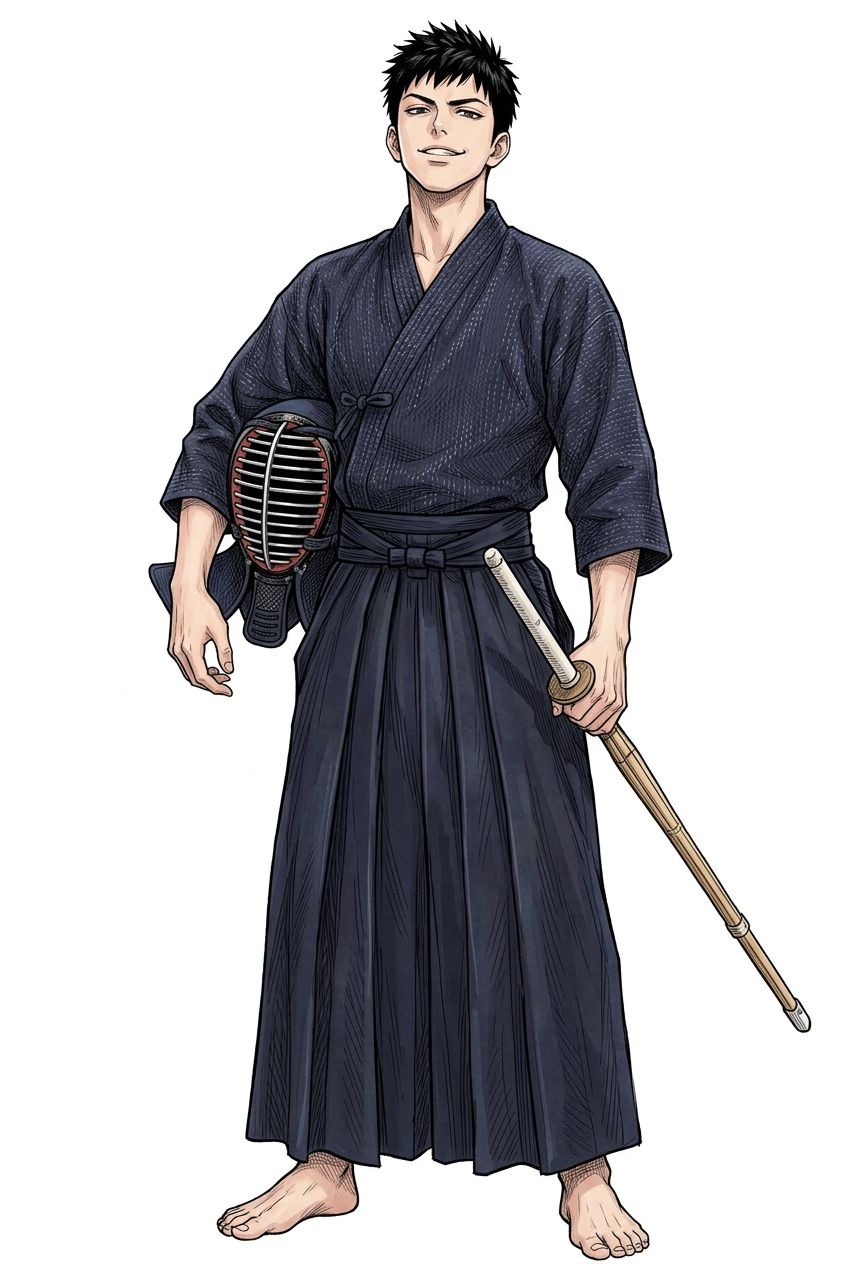
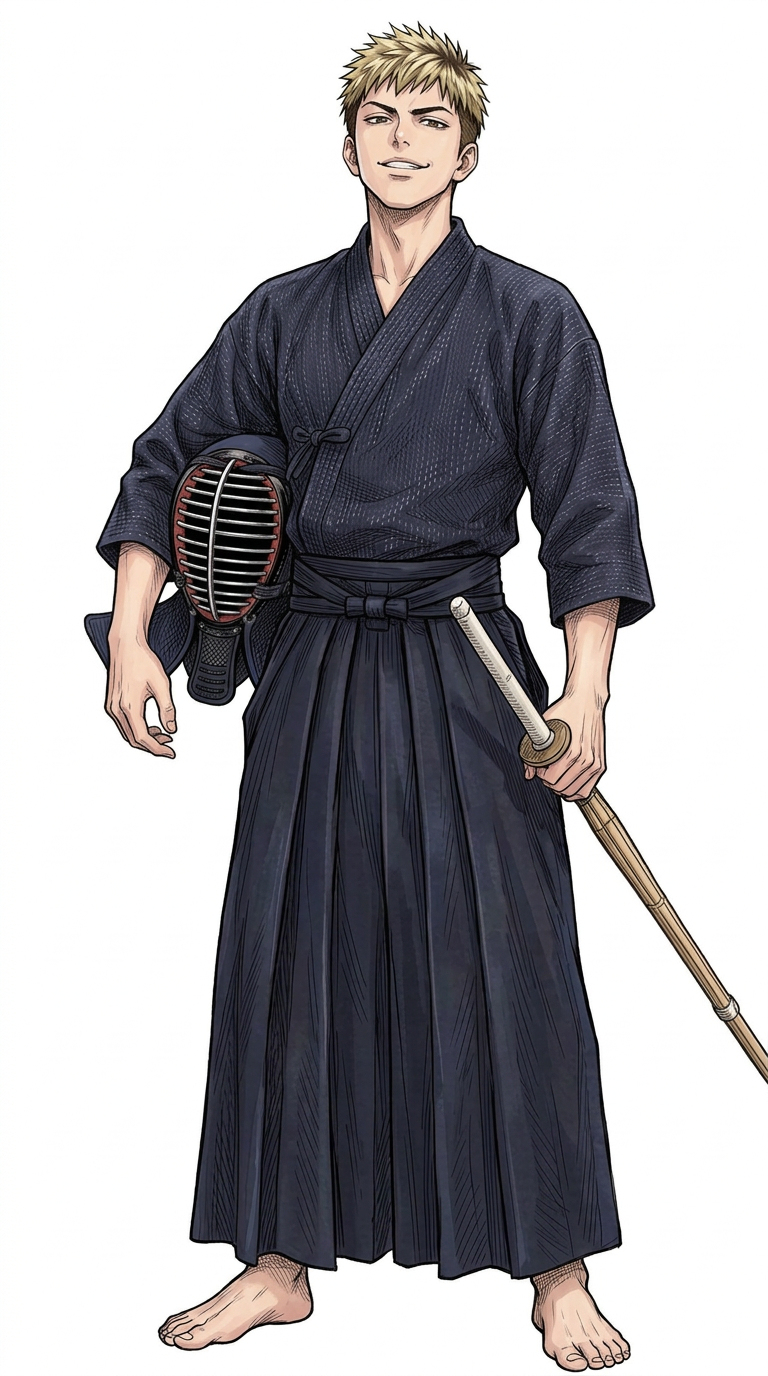
Author's inventory review: imperial units everywhere, taller beast, Kazuo B, winter past-life death (winter past backgrounds), blonde opponent, slate-blue Takatsuki, black-haired thug, two-sword ronin, imperial lineups (+ lineup.py)
Claude-Session: https://claude.ai/code/session_01XLs2Ne2mLuYkmfmUJY1juB

Changed region(s): [[0.0938, 0.0, 1.0, 1.0]]

diff --git a/production/pipeline/layout/lineup.py b/production/pipeline/layout/lineup.py
@@ -1,0 +1,78 @@
+"""Cast scale lineups (style guide §1b). Imperial units only (author's rule, Oct 10).
+Each figure is masked from its white/cream background, its head top found in the
+central band of its bounding box (ignores raised hands and props), scaled so
+feet-to-head equals its height, and pasted bottom-aligned on a 6-inch grid.
+Run from the repo root: python3 production/pipeline/layout/lineup.py"""
+from PIL import Image, ImageDraw, ImageFont
+import numpy as np
+
+R = "production/refs/"
+I = R + "inventory/"
+PX = 8.0           # pixels per inch
+TOP_IN = 84        # grid goes to 7 ft
+MARGIN = 60
+
+def fmt(inches):
+    return f"{inches // 12}′{inches % 12}″"
+
+ROW1 = [("Kōhei", I+"full-kohei.png", 69), ("Nanoha", I+"full-nanoha.png", 59),
+        ("Natsuki", R+"natsuki-v2/01-restyle-uniform.png", 63), ("Akane", I+"full-akane.png", 60),
+        ("Ryōsuke", I+"full-ryosuke.png", 67), ("Rika", I+"full-rika.png", 61),
+        ("Takatsuki", I+"full-takatsuki.png", 68), ("Kirishima", I+"full-kirishima.png", 71),
+        ("Yuzu", I+"full-yuzu.png", 61), ("Ōno", I+"full-ono.png", 72),
+        ("Adviser", I+"adviser.png", 66), ("Manager", I+"full-manager.png", 65)]
+ROW2 = [("Kazuo", I+"kazuo-B.png", 72), ("Emi", I+"full-emi.png", 62), ("Sōta", I+"full-sota.png", 48),
+        ("Genji", I+"genji.png", 62), ("Mom", I+"kohei-mom-recover.png", 62), ("Dad", I+"kohei-dad-healthy.png", 68),
+        ("Rōnin (past)", I+"ronin-B.png", 69), ("Natsuki (past)", I+"past-natsuki-A.png", 62),
+        ("Her father", I+"past-father.png", 65), ("Thug", I+"thug.png", 70), ("Opponent", I+"opponent.png", 68),
+        ("Beast", ("beast", I+"beast-size-reference-v2.png"), 51)]
+
+def cutout(path):
+    beast = isinstance(path, tuple)
+    im = Image.open(path[1] if beast else path).convert("RGB")
+    if beast:  # right half of the size reference holds the beast
+        im = im.crop((560, 0, im.width, im.height))
+    a = np.asarray(im).astype(int)
+    bg = np.median(np.concatenate([a[:8].reshape(-1, 3), a[-8:].reshape(-1, 3), a[:, :8].reshape(-1, 3), a[:, -8:].reshape(-1, 3)]), axis=0)
+    m = np.abs(a - bg).sum(2) > 45
+    ys, xs = np.where(m)
+    x0, x1, y1 = xs.min(), xs.max(), ys.max()
+    if beast:
+        top = ys.min()
+    else:
+        c0, c1 = x0 + int(0.35 * (x1 - x0)), x0 + int(0.65 * (x1 - x0))
+        top = np.where(m[:, c0:c1].any(1))[0].min()
+    alpha = Image.fromarray((np.clip((np.abs(a - bg).sum(2) - 20) / 60, 0, 1) * 255).astype("uint8"))
+    rgba = im.copy(); rgba.putalpha(alpha)
+    return rgba.crop((x0, top if beast else ys.min(), x1 + 1, y1 + 1)), (top - (top if beast else ys.min()))
+
+def row(items, out, note=""):
+    font = ImageFont.truetype("/usr/share/fonts/truetype/dejavu/DejaVuSans.ttf", 26)
+    small = ImageFont.truetype("/usr/share/fonts/truetype/dejavu/DejaVuSans.ttf", 20)
+    figs = []
+    for name, path, h in items:
+        im, off = cutout(path)
+        s = (h * PX) / (im.height - off)
+        figs.append((name, h, im.resize((max(1, int(im.width * s)), int(im.height * s)), Image.LANCZOS)))
+    meas = ImageDraw.Draw(Image.new("RGB", (1, 1)))
+    slot = [max(f[2].width, int(meas.textlength(f[0], font=font))) for f in figs]
+    W = MARGIN * 2 + sum(slot) + 30 * (len(figs) - 1)
+    base = int(TOP_IN * PX) + 40
+    H = base + 90
+    can = Image.new("RGB", (W, H), "white"); d = ImageDraw.Draw(can)
+    for inch in range(0, TOP_IN + 1, 6):
+        y = base - int(inch * PX)
+        d.line([(MARGIN - 10, y), (W, y)], fill=(205, 205, 215) if inch % 12 == 0 else (232, 232, 238), width=2 if inch % 12 == 0 else 1)
+        if inch % 12 == 0:
+            d.text((6, y - 12), f"{inch // 12} ft", fill=(120, 120, 130), font=small)
+    x = MARGIN
+    for (name, h, im), sw in zip(figs, slot):
+        can.paste(im, (x, base - im.height), im)
+        d.text((x, base + 10), name, fill=(20, 20, 20), font=font)
+        d.text((x, base + 44), fmt(h) + (" to the ears" if name == "Beast" else ""), fill=(90, 90, 90), font=small)
+        x += sw + 30
+    can.save(out); return can
+
+if __name__ == "__main__":
+    row(ROW1, R + "lineup/lineup-1-school.png")
+    row(ROW2, R + "lineup/lineup-2-family-past.png")

diff --git a/story/style-guide.md b/story/style-guide.md
@@ -12,7 +12,7 @@ How Ōzakura looks and sounds, and how to generate it. Read this before any art,
      - `02-sailor-uniform.png`: **the age and proportion target**, and her school-day uniform.
      - `03-bedroom-plushies.png`: her room and at-home clothes. She reads slightly too young here, and her hair drifted gray.
      - `x-rejected-*`: the color options that weren't chosen.
-   - **Natsuki:** `production/refs/natsuki-v2/01-restyle-uniform.png` **locks the direction.** Her hair should end at the shoulders (it runs slightly long in this image), and her legs are still a bit long for 160 cm.
+   - **Natsuki:** `production/refs/natsuki-v2/01-restyle-uniform.png` **locks the direction.** Her hair should end at the shoulders (it runs slightly long in this image), and her legs are still a bit long for 5′3″.
      - `02-restyle-casual.png`: the styling idea only. **Do not use** its outfit, which reads as a twenty-something.
 3. **The author's concept references** (`production/refs/handoff/`):
    - **Nanoha:**
@@ -43,7 +43,7 @@ All files are in `production/refs/design-oct10/`. They outrank every older image
 | Natsuki casual | `natsuki-casual-A.png` (main), `natsuki-casual-B.png` | Hair runs slightly past the shoulders in both; correct to shoulder length in the sprites. School look: `natsuki-v2/01-restyle-uniform.png`. |
 | Kirishima (male) | `r3/kirishima-masc-A.png` | Crew cut, square jaw, broad shoulders, deadpan. Replaces the female sprite set. |
 | Fairy | `r3/fairy-shoulder.png`, `r3/fairy-desk.png` | **Scale method:** always show her next to a person or a known object (shoulder, pencil, mug); alone, the model draws her full-size. Rounded ears, no wings, petal robes. |
-| Beast | `r4/beast-size-reference.png`, `r4/beast-scene-town.png` | **Size rule:** shoulder at a man's belt line (about 90 cm), head reaching his chest. A really big dog, not a giant. The model inflates its size; pass `beast-size-reference.png` as image 1 in every beast prompt, and fix in post if needed. `beast-scene-past-2.png` is a mood concept only; the wolf is still too large. |
+| Beast | `inventory/beast-size-reference-v2.png` (**current, Oct 10**), `inventory/beast-ethereal-town.png` | **Size rule (raised Oct 10):** back at a man's belt line (about 3′4″ at the shoulder), ear tips at his chest (about 4′3″). A really big dog, not a giant. The model gets size wrong; pass `beast-size-reference-v2.png` as image 1 in every beast prompt, and fix in post if needed. The older `r4/beast-size-reference.png` is superseded. `beast-scene-past-2.png` is a mood concept only; the wolf is still too large. |
 
 **Draft color swatches** (sampled from the references above; verify in the sprite pass):
 | Character | Hair | Skin | Eyes | Key colors |
@@ -59,40 +59,42 @@ All files are in `production/refs/design-oct10/`. They outrank every older image
 ## 1b. Visual inventory, Oct 10 (self-reviewed by Claude; awaiting the author's review)
 Everything is in `production/refs/`. Review boards are listed in the production log. **[P]** marks a choice Claude made that the author hasn't confirmed.
 
-**Scale lineups** (`lineup/lineup-1-school.png`, `lineup/lineup-2-family-past.png`): composited in code from the full-body references, bottom-aligned on a 10 cm grid. Heights: Kōhei 175, Nanoha 150, Natsuki 160 and Akane 153 are set; all others are **[P]**: Ryōsuke 170, Rika 156, Takatsuki 173, Kirishima 180, Yuzu 154, Ōno 183, adviser 168, manager 165, Kazuo 182, Emi 158, Sōta 122, Genji 157 (stooped), Kōhei's mom 157, his dad 173, the rōnin 175, past Natsuki 158, her father 165, thug 178, tournament opponent 172. Beast: 90 cm at the shoulder.
+**Scale lineups** (`lineup/lineup-1-school.png`, `lineup/lineup-2-family-past.png`): composited in code from the full-body references, bottom-aligned on a 6-inch grid (code: `production/pipeline/layout/lineup.py`). **Units: imperial only** (author's rule, Oct 10). Heights: Kōhei 5′9″, Nanoha 4′11″, Natsuki 5′3″ and Akane 5′0″ are set; all others are **[P]**: Ryōsuke 5′7″, Rika 5′1″, Takatsuki 5′8″, Kirishima 5′11″, Yuzu 5′1″, Ōno 6′0″, adviser 5′6″, manager 5′5″, Kazuo 6′0″, Emi 5′2″, Sōta 4′0″, Genji 5′2″ (stooped), Kōhei's mom 5′2″, his dad 5′8″, the rōnin 5′9″, past Natsuki 5′2″, her father 5′5″, thug 5′10″, tournament opponent 5′8″. Beast: 4′3″ to the ear tips.
 
 | Group | Files (`inventory/` unless noted) | Notes |
 |---|---|---|
-| Nanoha's family | `kazuo-B.png` (preferred [P]), `kazuo-A.png`, `full-emi.png`, `full-sota.png`, `genji.png` | Kazuo B is the off-duty mentor (training mitts); A is the work look. |
+| Nanoha's family | `kazuo-B.png` (**chosen Oct 10**), `kazuo-A.png` (alternate), `full-emi.png`, `full-sota.png`, `genji.png` | Kazuo B is the off-duty mentor (training mitts); A is the work look. |
 | Kōhei's parents | `kohei-mom-grief.png`, `kohei-mom-recover.png`, `kohei-dad-healthy.png`, `kohei-dad-ill.png` | Mom's two states track her recovery arc. Dad appears only in flashbacks. |
 | School adults | `adviser.png`, `full-ono.png`, `full-manager.png` | |
 | Supporting cast, full body | `full-kohei`, `full-nanoha`, `full-akane`, `full-kirishima`, `full-takatsuki`, `full-ryosuke`, `full-rika`, `full-yuzu` | Natsuki's full-body reference stays `natsuki-v2/01-restyle-uniform.png`. |
-| Past life | `ronin-B.png` (preferred), `ronin-A.png`, `past-natsuki-B.png` (outing: shawl, green kimono), `past-natsuki-A.png` (everyday), `past-father.png` | |
-| One-scene antagonists | `thug.png`, `opponent.png` | |
+| Past life | `ronin-B.png` (chosen; **wears two swords**, katana and wakizashi, Oct 10), `ronin-A.png`, `past-natsuki-B.png` (outing: shawl, green kimono), `past-natsuki-A.png` (everyday), `past-father.png` | |
+| One-scene antagonists | `thug.png`, `opponent.png` | Opponent: **bleached-blonde hair** (author, Oct 10). Thug: black undercut [P], changed from blonde so the opponent's hair stays distinctive. |
 | Seasonal outfits | `out-{kohei,nanoha,natsuki,akane}-{summer,yukata,winter}.png` | Natsuki's hair runs long in these; keep it shoulder-length in sprites (§2). |
 | Kendo armor | `bogu-kohei.png`, `bogu-natsuki.png`, `bogu-takatsuki.png` | |
 | Fairy seasons | `fairy-summer.png`, `fairy-autumn.png`, `fairy-winter.png`, `fairy-bloom.png` | Each shown over a hand for scale (§1a method). |
-| Beast, ethereal tweak | `beast-ethereal-size.png` (reads best), `beast-ethereal-town.png` | Same size rule as §1a; ink-black fur with a faint shifting multicolor sheen. **Pending the author's OK.** |
-| Turnarounds (animation) | `turnarounds/{kohei,nanoha,natsuki,akane,ronin,past-natsuki,beast,fairy}.png` | Front, side, back at one scale; the beast sheet adds mask and paw details. Known nit: Akane's bag is on the wrong side in her side view. |
-| Locations | `locations/houses-street.png`, `window-night-from-kohei.png`, `window-day-from-nanoha.png`, `nanoha-room-day.png` | The houses at about 1 m with no path between them, and the facing windows both ways (fixes 18 and 31). Built from layout sketches in `locations/sketches/` (code: `production/pipeline/layout/house_sketches.py`). |
+| Beast, ethereal tweak | `beast-size-reference-v2.png`, `beast-ethereal-town.png` | **Approved Oct 10.** Ink-black fur with a faint shifting multicolor sheen, at the raised size (§1a). `beast-ethereal-size.png` shows the old, smaller scale; don't use it for size. |
+| Turnarounds (animation) | `turnarounds/{kohei,nanoha,natsuki,akane,ronin,past-natsuki,beast,fairy}.png` | Front, side, back at one scale; the beast sheet adds mask and paw details. Known nit: Akane's bag is on the wrong side in her side view. The rōnin sheet shows both swords. |
+| Locations | `locations/houses-street.png`, `window-night-from-kohei.png`, `window-day-from-nanoha.png`, `nanoha-room-day.png` | The houses about three feet apart with no path between them, and the facing windows both ways (fixes 18 and 31). Built from layout sketches in `locations/sketches/` (code: `production/pipeline/layout/house_sketches.py`). |
 | The Great Cherry | `locations/tree-{summer,autumn,winter}.png`, `tree-newyear-bloom.png` | Season edits of `img/bg/bg_shrine_tree_day.webp` (the spring view), so the site stays identical. New Year: snow, out-of-season bloom, lanterns. |
-| Past era | `locations/past-tree-site.png`, `past-tree-bloom.png`, `past-mist-path.png`, `past-village.png` | Same tree and boulder, no shrine buildings, shimenawa and a stone marker, thatched village below. **Late autumn for the past-life death is [P]**; the season is Open in canon. |
+| Past era | `locations/past-tree-site.png`, `past-tree-bloom.png`, `past-mist-path.png`, `past-village.png` | Same tree and boulder, no shrine buildings, shimenawa and a stone marker, thatched village below. **Winter** (canon §5, Oct 10): light snow, frost and mist, so the bloom plate shows blossoms falling on snow. The village is an autumn establishing shot. |
+
+**Known issue for the final sprite pass:** Nanoha's skin renders too pale or gray in some images (lineup, turnaround). Check every Nanoha sprite against her skin swatch (§1a); the author doesn't need these redone now.
 
 **Not made yet (per chapter, when needed):** ordinary backgrounds, event CGs, the old grave or memorial (canon: Open), the Tachibana and Fujisawa interiors beyond what's shipped, the town map.
 
 ## 2. Character visual sheet
 | Character | Hair | Eyes / face | Height | Outfits | B&W rendering |
 |---|---|---|---|---|---|
-| Kōhei | **Dark brown**, somewhat unruly, uneven fringe leaving the eyes visible. Black or spiky hair is drift | Brown, expressive; youthful, handsome; warm, easy smiles, no permanent scowl | **175 cm** | Navy blazer (gold buttons, open), white shirt, burgundy striped tie loosened, charcoal trousers. Kendo: navy keikogi and hakama. Work: white shirt, dark waist apron | Solid black with white highlights |
-| Nanoha | Natural dark brown, below the shoulder blades when down. **School/outings:** loose side braid. **Home:** long and loose. **Bed:** loose bun on *top* of her head with a BIG SOFT scrunchie | Brown eyes, soft oval face; deadpan is her key expression | Petite, about 150 cm; head reaches Kōhei's chin | Navy blazer, white shirt, burgundy ribbon, **charcoal plaid pleated skirt**, dark socks, brown loafers. Pale-blue pajamas with a small cat detail | Dark tone (nearly black), glossy highlights |
-| Natsuki | Bright burnished copper. **Shoulder-length** layered cut, side-swept fringe, **styled soft and neat** (tucked behind an ear, glossy, not tousled). **Athletics:** short ponytail | Amber-brown with expressive brows; **warm, quietly confident, slightly knowing smile**; poised posture. Not a tomboy grin | **160 cm**, athletic; exact build Open | Same uniform as Nanoha, worn neatly. Kendo: faded, much-washed indigo keikogi. Casual: put-together and fashionable but **age-appropriate** (short cardigan, casual skirt or jeans, sneakers), camera on a strap. Athletic: navy track shirt and dark sweats | Medium-gray tone, clearly lighter than the dark-haired cast, bright highlights |
+| Kōhei | **Dark brown**, somewhat unruly, uneven fringe leaving the eyes visible. Black or spiky hair is drift | Brown, expressive; youthful, handsome; warm, easy smiles, no permanent scowl | **5′9″** | Navy blazer (gold buttons, open), white shirt, burgundy striped tie loosened, charcoal trousers. Kendo: navy keikogi and hakama. Work: white shirt, dark waist apron | Solid black with white highlights |
+| Nanoha | Natural dark brown, below the shoulder blades when down. **School/outings:** loose side braid. **Home:** long and loose. **Bed:** loose bun on *top* of her head with a BIG SOFT scrunchie | Brown eyes, soft oval face; deadpan is her key expression | Petite, about 4′11″; head reaches Kōhei's chin | Navy blazer, white shirt, burgundy ribbon, **charcoal plaid pleated skirt**, dark socks, brown loafers. Pale-blue pajamas with a small cat detail | Dark tone (nearly black), glossy highlights |
+| Natsuki | Bright burnished copper. **Shoulder-length** layered cut, side-swept fringe, **styled soft and neat** (tucked behind an ear, glossy, not tousled). **Athletics:** short ponytail | Amber-brown with expressive brows; **warm, quietly confident, slightly knowing smile**; poised posture. Not a tomboy grin | **5′3″**, athletic; exact build Open | Same uniform as Nanoha, worn neatly. Kendo: faded, much-washed indigo keikogi. Casual: put-together and fashionable but **age-appropriate** (short cardigan, casual skirt or jeans, sneakers), camera on a strap. Athletic: navy track shirt and dark sweats | Medium-gray tone, clearly lighter than the dark-haired cast, bright highlights |
 | Akane | **Pale lavender-silver**, soft and wispy, shoulder length, small side clip | **Gray-violet**, big and soft; round, soft face with fuller cheeks; slightly pale with a faint blush; sweet expressions. Clearly younger than the high-schoolers | Small and slight, compact (about 14) | **School:** sailor uniform (navy collar with white stripes, white body, red scarf, navy pleated skirt below the knee, white socks, loafers; plush-rabbit bag charm). **Home:** cute and youthful (cream cardigan, pink bunny-ear hoodie, lavender lounge pants, fuzzy socks). Room full of plushies | Light tone (pale hair) with soft highlights |
 | Past-life Natsuki | Copper, tied back with a plain cord | **Face hidden in the manga** | — | **A real kimono, simple and everyday**, as worn by a modestly propertied family. Not elaborate, not peasant work clothes | Medium-gray tone |
 | Rika | Black, two low pigtails, novelty clips (strawberry, star, frog with a crown) | Big and expressive | — | Uniform with a cream cardigan under the blazer | — |
 | Ryōsuke | Neat black | Rectangular glasses; composed, smug | — | Uniform, striped tie | — |
 | Yuzu | Light honey-brown, shoulder length, red clip | Cheeky grin | — | White blouse with name badge, burgundy waist apron, black skirt | — |
-| Kirishima | **Male (Oct 10):** black crew cut, square jaw, broad shoulders | Calm, unreadable, deadpan | 180 cm [P] | White keikogi, navy hakama | — |
-| Takatsuki | Swept-back black | Sharp; **precise and composed, not sneering** (redesign) | — | Navy keikogi and hakama | — (prone to drift; always pass his sprite) |
+| Kirishima | **Male (Oct 10):** black crew cut, square jaw, broad shoulders | Calm, unreadable, deadpan | 5′11″ [P] | White keikogi, navy hakama | — |
+| Takatsuki | Swept-back, **deep slate blue** (blue-black with steel-blue highlights) [P], Oct 10, for readability against the dark-haired cast | Sharp; **precise and composed, not sneering** (redesign) | — | Navy keikogi and hakama | — (prone to drift; always pass his sprite) |
 | Emi | Dark hair, low bun | Warm | — | Light-blue shirt, mustard-yellow apron | — |
 | Sōta | Messy dark hair, bandage on his cheek | Gap-toothed grin | Age 7 | Green dinosaur T-shirt, navy shorts, game controller | — |
 | Ōno-sensei | Slightly messy | Droopy and tired; 40s, tall and thin | — | Knit cardigan over shirt and tie | — |
@@ -102,7 +104,7 @@ Everything is in `production/refs/`. Review boards are listed in the production 
 **High-school uniform** (proposed, not a settled school identity; no invented insignia): navy blazer with gold buttons, white shirt, burgundy ribbon or tie, charcoal **plaid** pleated skirt (trousers for boys), dark socks, brown loafers.
 
 **The two houses:**
-- Built almost touching, **about a meter between the walls**. Upstairs bedroom windows face each other within arm's reach (Muv-Luv Extra). No alley or stairs between them.
+- Built almost touching, **about three feet between the walls**. Upstairs bedroom windows face each other within arm's reach (Muv-Luv Extra). No alley or stairs between them.
 - The shipped `bg_street_houses` and `cg_window_night` are wrong (pilot-notes fix 18). Replacements: `production/refs/locations/houses-street.png` and the two window views (§1b).
 - **Method for layout-critical backgrounds:** see §6.
 
@@ -198,7 +200,7 @@ Everything is in `production/refs/`. Review boards are listed in the production 
 - **Garbled kanji on props:** avoid legible text in the art, or cover it with lettering.
 - **Side characters drift** (Takatsuki most): always pass the sprite.
 - **Continuity slips in chibi panels:** state the outfit explicitly.
-- **The model won't hold specific geometry from text** (Oct 6). Four attempts at "houses about a meter apart" either kept the alley or produced nonsense, and editing the old background anchored the old layout. **Fix:** draw a simple layout sketch in code (blocking shapes for the walls, the gap and the windows in perspective) and pass it as the structure reference, with the style anchor for rendering.
+- **The model won't hold specific geometry from text** (Oct 6). Four text-only attempts at the close spacing either kept the alley or produced nonsense, and editing the old background anchored the old layout. **Fix:** draw a simple layout sketch in code (blocking shapes for the walls, the gap and the windows in perspective) and pass it as the structure reference, with the style anchor for rendering.
 - **Refs must be pushed before submitting a job** (Oct 10, twice): a raw GitHub URL that isn't on `main` yet fails the job with a 422 (uncharged). Push, check the raw URL returns 200, then submit.
 - **Grayscale drift** (Oct 10): NB2 sometimes returns monochrome from color refs. Every prompt says "FULL NATURAL COLOR … absolutely not grayscale".
 - **Age drift:** prompts for a 14-year-old came back looking 16–17 (Akane, first pass). Spell out the age cues in §3, and check against `akane-v2/02-sailor-uniform.png`.

diff --git a/story/canon.md b/story/canon.md
@@ -106,7 +106,7 @@ A supernatural beast then threatens their town. The tree blooms out of season, i
 - **Proposal:** Natsuki lives nearer the station.
 
 ### The two houses (updated Oct 6)
-- Kōhei's and Nanoha's houses stand side by side near the wooded edge, **built almost touching, with about a meter between their walls.**
+- Kōhei's and Nanoha's houses stand side by side near the wooded edge, **built almost touching, with about three feet between their walls.**
 - Their upstairs bedroom windows face each other close enough to reach across and pass a book. **Reference: the houses in Muv-Luv Extra.**
 - **No alley, path or stairway runs between them.** The way up to the shrine starts somewhere else along the street.
 - Window conversations, lights on while studying, and silly distractions are optional recurring scenes.
@@ -182,6 +182,7 @@ A supernatural beast then threatens their town. The tree blooms out of season, i
 - **They never sparred together.** **She watched him train** for years.
 - **The death:**
   - **Setting:** a walk together; a misty morning is the author's working image.
+  - **Season (Decided Oct 10): winter.** So the out-of-season bloom comes at about the same time of year in both eras: past = after his death in winter; present = New Year.
   - **Before (Decided Oct 10):** there have been a rumor or two, but the tree hasn't bloomed. He goes armed; she teases him a little about it and thinks it's nothing. Then they're trapped.
   - **The trap:** a beast that distorts familiar paths traps them, so she cannot go for help.
   - **The fight:** long. He realizes he is losing a battle of attrition, and that if it goes on they will both die.
@@ -341,7 +342,7 @@ The family's recovery from Dad's death runs alongside the romance all year. The 
 - **The deaths:** unexplained deaths occur in town. The cause is a supernatural beast that **distorts familiar paths, trapping and separating people**. When it dies, the distortion ends.
 - **The beast:**
   - It need not be the same beast as before.
-  - **Size (Decided Oct 10):** a really big dog, not a giant: its shoulder is at a man's belt line (about 90 cm), its head reaches his chest. The fight is sword's reach, not stabbing at paws.
+  - **Size (Decided Oct 10):** a really big dog, not a giant: its back is at a man's belt line (about 3′4″ at the shoulder), and its head reaches his chest (about 4′3″ to the ear tips). **Raised Oct 10** from about 3′ at the shoulder. The fight is sword's reach, not stabbing at paws.
   - **Look (candidate, Oct 10):** an ink-black wolf with brushstroke-edged fur and a pale, smooth carved-mask face with narrow glowing eyes; its legs and tail fray into mist (style guide §1a).
   - **Nature (Decided Oct 10):** a supernatural **wolf-like** creature. It has a physical form and can be wounded, but it is mainly spiritual, and it **leaves no corpse** when killed.
   - **Folklore source (Decided Oct 10): the okuri-ōkami / okuri-inu,** the "escorting wolf" of mountain-path legend, known from Kantō to Kinki.
@@ -398,7 +399,7 @@ The family's recovery from Dad's death runs alongside the romance all year. The 
 
 ## 8. Characters
 ### Fujisawa Kōhei
-- **Basics:** second year, 16, about **175 cm**. Dark-brown, somewhat unruly hair with an uneven fringe; expressive brown eyes and brows; a youthful, handsome face; lean athletic build.
+- **Basics:** second year, 16, about **5′9″**. Dark-brown, somewhat unruly hair with an uneven fringe; expressive brown eyes and brows; a youthful, handsome face; lean athletic build.
 - **Look and manner:** warm, slightly rough-edged, capable of easy smiles, with a frightening stillness when angry. No permanent scowl, no signature scar, no constant exhaustion marks. Simple, affordable clothes (Working). He's admirable, relatable and sometimes frightening, **never a habitual sadist**.
 - **Socially:** functional, not a loner. Romantically inexperienced but neither sexless nor hopelessly obtuse. Competitive; likes winning and admiration, including Natsuki's. Comfortable with banter, less so with admitting needs.
 - **Humor:** playful teasing and mock seriousness with the people close to him. Sincere flirtation flusters him.
@@ -456,7 +457,7 @@ The family's recovery from Dad's death runs alongside the romance all year. The 
 - **Retired:** her dying rather than merging with the tree.
 
 ### Mizuno Natsuki
-- **Basics:** second year, 16, transfers in at the start of April. **160 cm.**
+- **Basics:** second year, 16, transfers in at the start of April. **5′3″.**
 - **Look:**
   - **Hair:** bright burnished copper in a **shoulder-length**, layered cut with a side-swept fringe.
   - **Face:** amber-brown eyes, expressive brows.
@@ -565,7 +566,7 @@ The family's recovery from Dad's death runs alongside the romance all year. The 
   - **Personality (Proposal):** old but childlike. Curious, a little vain, food-motivated (cookies; the biscuit trial), mischievous with Nanoha. She remembers what she cared about, not what would be useful, so her limited knowledge reads as character.
   - **Gender (Working, Oct 10):** female (the author refers to her as "her").
   - **Look (candidate, Oct 10; style guide §1a):** palm-sized, long dark hair with blossoms, layered pale-pink petal robes, rounded ears, no wings, a faint glow.
-  - **Look (Proposals for the design step):** small, palm-sized (about 10–15 cm). A tiny girl in layered petal-like robes with an old-fashioned cut. No butterfly wings: she drifts like a falling petal, which matches her early appearance as a point of light. Her outfit follows the tree's season (green in summer, red-gold in autumn, bare and twiggy in early winter) until she's in full blossom at the New Year bloom. Avoid resembling well-known tree spirits.
+  - **Look (Proposals for the design step):** small, palm-sized (about 4–6 inches). A tiny girl in layered petal-like robes with an old-fashioned cut. No butterfly wings: she drifts like a falling petal, which matches her early appearance as a point of light. Her outfit follows the tree's season (green in summer, red-gold in autumn, bare and twiggy in early winter) until she's in full blossom at the New Year bloom. Avoid resembling well-known tree spirits.
 
 ## 9. Supernatural principles
 - **The tree:** the cherry tree is a local good deity, or its embodied presence. It protects homes and community and counterbalances nearby evil. Its exact nature is Open.
@@ -719,7 +720,7 @@ Anything else (geography details, care costs, club details, combat, shrine dutie
 ## Revision record
 - **Sept 27–29:** smaller local story adopted. Cast, names, family, setting, shrine and the street-fight sequence established (see the archived Oct 1 bible for the detail).
 - **Oct 1:** author's consolidated bible.
-- **Oct 5:** Natsuki 160 cm and shoulder-length hair; Kōhei 175 cm with dark-brown hair; charcoal plaid skirt.
+- **Oct 5:** Natsuki 5′3″ and shoulder-length hair; Kōhei 5′9″ with dark-brown hair; charcoal plaid skirt.
 - **Oct 6:**
   - Kendo becomes setting, not sports manga.
   - Full-year calendar (late-Aug kiss, Oct dating).
@@ -729,7 +730,7 @@ Anything else (geography details, care costs, club details, combat, shrine dutie
   - Akane redesigned.
   - Hair-color convention.
   - Natsuki restyled.
-  - Houses about a meter apart, no alley.
+  - Houses about three feet apart, no alley.
 - **Oct 7:**
   - Past life rewritten: rōnin, arranged marriage for an heir, she an ordinary, helpless woman, the deliberate trade, never sparred.
   - Its consequences: one-sided recognition; the climax recast as instinct, not choice.
@@ -753,3 +754,6 @@ Anything else (geography details, care costs, club details, combat, shrine dutie
   - **Manga inserts are full color** in the VN style (§2); past-life color treatment is a proposal.
   - **Anime cutscenes (Working):** the author is willing to pay for a few at pivotal moments (§2).
   - **Animation:** the cutscene test passed; three-tier video plan (living stills, animated beats, a few full cutscenes plus an opening) is Working (§2).
+  - **The past-life death is in winter** (§5), so the tree blooms out of season at about the same time of year in both eras.
+  - **The beast is a little taller** (§6): about 4′3″ to the ear tips, back at a man's belt.
+  - **Units:** imperial only in all docs and art notes (author's rule).

diff --git a/story/production-log.md b/story/production-log.md
@@ -44,7 +44,7 @@ The old working bible (`ozakura/story-bible.md`) was retired Oct 8. Its contents
 | 10-05 | Manga test: B&W with screentone, NB Pro 2K, lettered in code, right to left, B6. The reader defaults to single page. |
 | 10-05 | Project organization: standing docs plus Planning, Story/Bible, and per-deliverable Production threads. |
 | 10-05 | Storage: text canon in the Project; all files in the repo. |
-| 10-05 | Natsuki 160 cm with shoulder-length hair; Kōhei about 175 cm with dark-brown hair; charcoal plaid skirt. |
+| 10-05 | Natsuki 5′3″ with shoulder-length hair; Kōhei about 5′9″ with dark-brown hair; charcoal plaid skirt. |
 | 10-05 | **Hold on revising the shipped VN and manga** while the process is re-examined. |
 | 10-06 | **Project working hours:** no Ōzakura work on weekdays 9–5, and nothing after 8 pm any day (America/New_York). |
 | 10-06 | **Kendo is setting and practice, not a sports manga.** Competitions are rare; no tournament arcs. |
@@ -56,7 +56,7 @@ The old working bible (`ozakura/story-bible.md`) was retired Oct 8. Its contents
 | 10-06 | **Akane redesigned:** cute, frail, sweet and playful; "Onii-chan"; lavender-silver hair (option A); sailor uniform on school days; cute outfits; a plushie-filled room. |
 | 10-06 | **Hair color is a medium convention,** never commented on in-world. |
 | 10-06 | **Natsuki restyled:** more feminine and self-assured, still shoulder-length. The school image locks the direction. Her appeal comes through personality and styling, never figure-focused design (Claude's boundary for the school-age cast). |
-| 10-06 | **Houses about a meter apart, no alley** (the Muv-Luv Extra model). The art fix needs a layout-sketch method. |
+| 10-06 | **Houses about three feet apart, no alley** (the Muv-Luv Extra model). The art fix needs a layout-sketch method. |
 | 10-06 | **Pilot critique accepted:** scale back the Ch3 flash, thin out the week-one supernatural beats, pull back Nanoha's near-confession, warm up Kōhei, casual sparring, hide the invented kanji, fix the calendar line. |
 | 10-07 | **Past life rewritten:** Kōhei a rōnin, Natsuki an ordinary woman in a traditional role from a modestly propertied family; an arranged marriage for her father's heir; deeply in love; a misty morning walk; a long fight lost to attrition, so he deliberately takes a fatal wound to kill the beast; she helpless; they never sparred. |
 | 10-07 | **Consequences:** her kendo means she isn't helpless now; recognition in sparring is one-sided (she watched him train). In the climax, Kōhei's old instinct pulls him toward the same opening without his choosing it, and Natsuki recognizes it and stops it. |
@@ -96,7 +96,8 @@ The old working bible (`ozakura/story-bible.md`) was retired Oct 8. Its contents
 | 10-10 | **Design pass delivered for approval** (style guide §1a): shorter-haired Kōhei plus a 10-face set, teen-proportioned Akane, Natsuki's casual outfits, a masculine Kirishima, the fairy at scale, and the beast at big-dog size with a size reference. Draft color swatches. |
 | 10-10 | **Design lock: all humans approved** (Kōhei and his face set, Akane, Natsuki's casual outfits, the male Kirishima). Beast scale approved; the author wants it slightly more ethereal and multicolored. Next: complete the visual inventory before voices, planning for more animation (three-tier video plan). |
 | 10-10 | **Visual inventory phase approved, cap $20:** new characters (families, adviser, past life, one-scene antagonists), a supporting-cast check, a cast scale lineup, seasonal outfits, the fairy's season forms, turnarounds for the animation principals, and key locations (houses, shrine/tree in both eras, past village). Ordinary backgrounds and event CGs stay per chapter. |
-| 10-10 | **Visual inventory delivered for review** (style guide §1b), all self-reviewed and fixed before delivery: scale lineups for the whole cast; families, school adults, past life and antagonists; full color for the supporting cast (grayscale drafts replaced); seasonal outfits and kendo armor; the fairy's four forms; the beast's ethereal tweak; turnarounds for eight animation principals; key locations (the houses at about 1 m and both window views, Nanoha's room, the tree in four seasons plus the New Year bloom, the past-era site, path and village). Boards: `production/refs/lineup/` and the review sheets sent in the Story thread. Supporting heights and a few picks are [P]. |
+| 10-10 | **Visual inventory delivered for review** (style guide §1b), all self-reviewed and fixed before delivery: scale lineups for the whole cast; families, school adults, past life and antagonists; full color for the supporting cast (grayscale drafts replaced); seasonal outfits and kendo armor; the fairy's four forms; the beast's ethereal tweak; turnarounds for eight animation principals; key locations (the houses about three feet apart and both window views, Nanoha's room, the tree in four seasons plus the New Year bloom, the past-era site, path and village). Boards: `production/refs/lineup/` and the review sheets sent in the Story thread. Supporting heights and a few picks are [P]. |
+| 10-10 | **Inventory review (author):** everything approved except these changes, all made the same day: **no metric units anywhere** (docs, lineups, prompts); the beast a little taller (about 4′3″ to the ears, back at a man's belt); **Kazuo version B**; **the past-life death is in winter** (canon §5), so the past-era backgrounds are now winter; the tournament opponent has **bleached-blonde hair**; one of Kōhei's friend or rival gets a slightly unusual hair color for readability (Claude picked **Takatsuki: deep slate blue** [P]); the rōnin wears **two swords** (version B kept). Also [P]: the street-fight thug's hair changed from blonde to a black undercut so the opponent's blonde stays distinctive. Nanoha's skin reads too pale in some images: fix in the final sprite pass, no redo now. |
 
 ## 3. Budget
 | Line | Cap | Spent | Notes |
@@ -105,11 +106,11 @@ The old working bible (`ozakura/story-bible.md`) was retired Oct 8. Its contents
 | Manga Vol. 1 | $50 | $33.01 | About $17 left |
 | Concept art, Oct 6 | none set (author-requested) | about $1–2 | 7 character images (NB2 1K) plus 4 house tests (NB2 2K) |
 | Design pass (Oct 10) | $10 | about $4.50 (≈55 NB2 images; failed jobs uncharged) | Kōhei + face set, male Kirishima, Natsuki casual, Akane check, fairy, beast concepts, swatches |
-| Visual inventory (Oct 10) | $20 | about $8 (≈80 images, NB2 1K/2K and NB Pro 2K; failed jobs uncharged) | see decision log and style guide §1b |
+| Visual inventory (Oct 10) | $20 | about $9 (≈90 images, NB2 1K/2K and NB Pro 2K, incl. review fixes; failed jobs uncharged) | see decision log and style guide §1b |
 | Voice auditions | approval pending | — | Estimated under $1 |
 | Cutscene test, Oct 10 | $10 (approved) | about $1.36 | 2 × 8 s clips (H3 Max 768P, Kling v3 Pro) |
 
-**Cumulative fal spend:** about $73–78. fal's dashboard has the exact figure.
+**Cumulative fal spend:** about $74–79. fal's dashboard has the exact figure.
 
 ## 4. Known issues
 **Manga Vol. 1, worst first:**

diff --git a/story/pilot-notes.md b/story/pilot-notes.md
@@ -35,7 +35,7 @@ This document replaces the old working bible (`ozakura/story-bible.md`). Last up
 7. **[Fix] Takatsuki:** remove the needling about Kōhei's missed practices. Rewrite him as the technically perfect kendoka baffled by Kōhei's instinctive swordsmanship (canon §8).
 8. **[Fix] Natsuki's voice:** "loud" becomes warm, confident and charismatic, in line with her restyle.
 9. **[Fix] Akane's lines** move from sardonic to sweet and playful, and she calls him "Onii-chan" instead of "Onii." This includes the Ch2 Tuesday recap ("none of my business").
-10. **[Fix] Fix the house distance.** Two lines say "three meters apart"; change them to about a meter, an arm's length.
+10. **[Fix] Fix the house distance.** Two lines say "three meters apart"; change them to about three feet, an arm's length (and use imperial units in the script).
 11. **[Fix] Fix Dad's calendar line.** "From a long time ago" overstates one year; change to "from last spring" or similar.
 12. **[Fix] The past-life girl** wears a simple real kimono, not a "peasant kimono." Her family is modestly propertied. **This means redrawing the prologue CG** (`cg_hands_strap`), where she's in a faded work kimono.
 13. **[Fix] Show more and tell less** throughout. **Sharpened Oct 8:**
@@ -50,9 +50,9 @@ This document replaces the old working bible (`ozakura/story-bible.md`). Last up
 **Art:**
 
 15. **[Fix] Akane:** a full redesign (lavender-silver hair, sailor uniform, cute outfits, younger look). New sprites are needed. Refs: `production/refs/akane-v2/`.
-16. **[Fix] Natsuki:** shoulder-length hair restyled per `production/refs/natsuki-v2/01-restyle-uniform.png`, at 160 cm with corrected proportions. **Added Oct 8:** her CGs show long hair too and need redrawing (`cg_natsuki_intro`, `cg_catch`, `cg_jigeiko` where visible, `cg_shrine_meeting`, `cg_pastlife`, and the title art).
-17. **[Fix] Kōhei:** dark-brown hair at about 175 cm. The manga's black, spiky hair at 178 cm is drift.
-18. **[Fix] Houses:** `bg_street_houses` (the alley and stairs between the houses) and `cg_window_night` (the wide gap). Redraw both with the houses about a meter apart, Muv-Luv Extra style. Text prompts failed four times; build a layout sketch for the model to paint over. **This also fixes the window-scene bug (fix 31).**
+16. **[Fix] Natsuki:** shoulder-length hair restyled per `production/refs/natsuki-v2/01-restyle-uniform.png`, at 5′3″ with corrected proportions. **Added Oct 8:** her CGs show long hair too and need redrawing (`cg_natsuki_intro`, `cg_catch`, `cg_jigeiko` where visible, `cg_shrine_meeting`, `cg_pastlife`, and the title art).
+17. **[Fix] Kōhei:** dark-brown hair at about 5′9″. The manga's black, spiky hair at 5′10″ is drift.
+18. **[Fix] Houses:** `bg_street_houses` (the alley and stairs between the houses) and `cg_window_night` (the wide gap). Redraw both with the houses about three feet apart, Muv-Luv Extra style. **Replacements made Oct 10** (style guide §1b). Text prompts failed four times; build a layout sketch for the model to paint over. **This also fixes the window-scene bug (fix 31).**
 
 **Voice:**
 

diff --git a/CLAUDE.md b/CLAUDE.md
@@ -29,6 +29,7 @@ If someone edited the Project copy directly, `project_read` it first and fold th
 - `production/<deliverable>/`: per-deliverable sources (scripts, manifests, editable lettering, masters).
 
 ## Habits
+- **Imperial units only** (feet and inches) in docs, art notes, lineups and prompts. The author doesn't want metric anywhere.
 - Commit at checkpoints, not only at the end. Keep large intermediate renders out unless they're needed to rebuild.
 - Before pushing, run `git fetch origin main` and rebase. The clone is shallow.
 - Raw URLs (`https://raw.githubusercontent.com/thefirstmccabe/ozakura/main/...`) work directly as fal `image_urls`.
